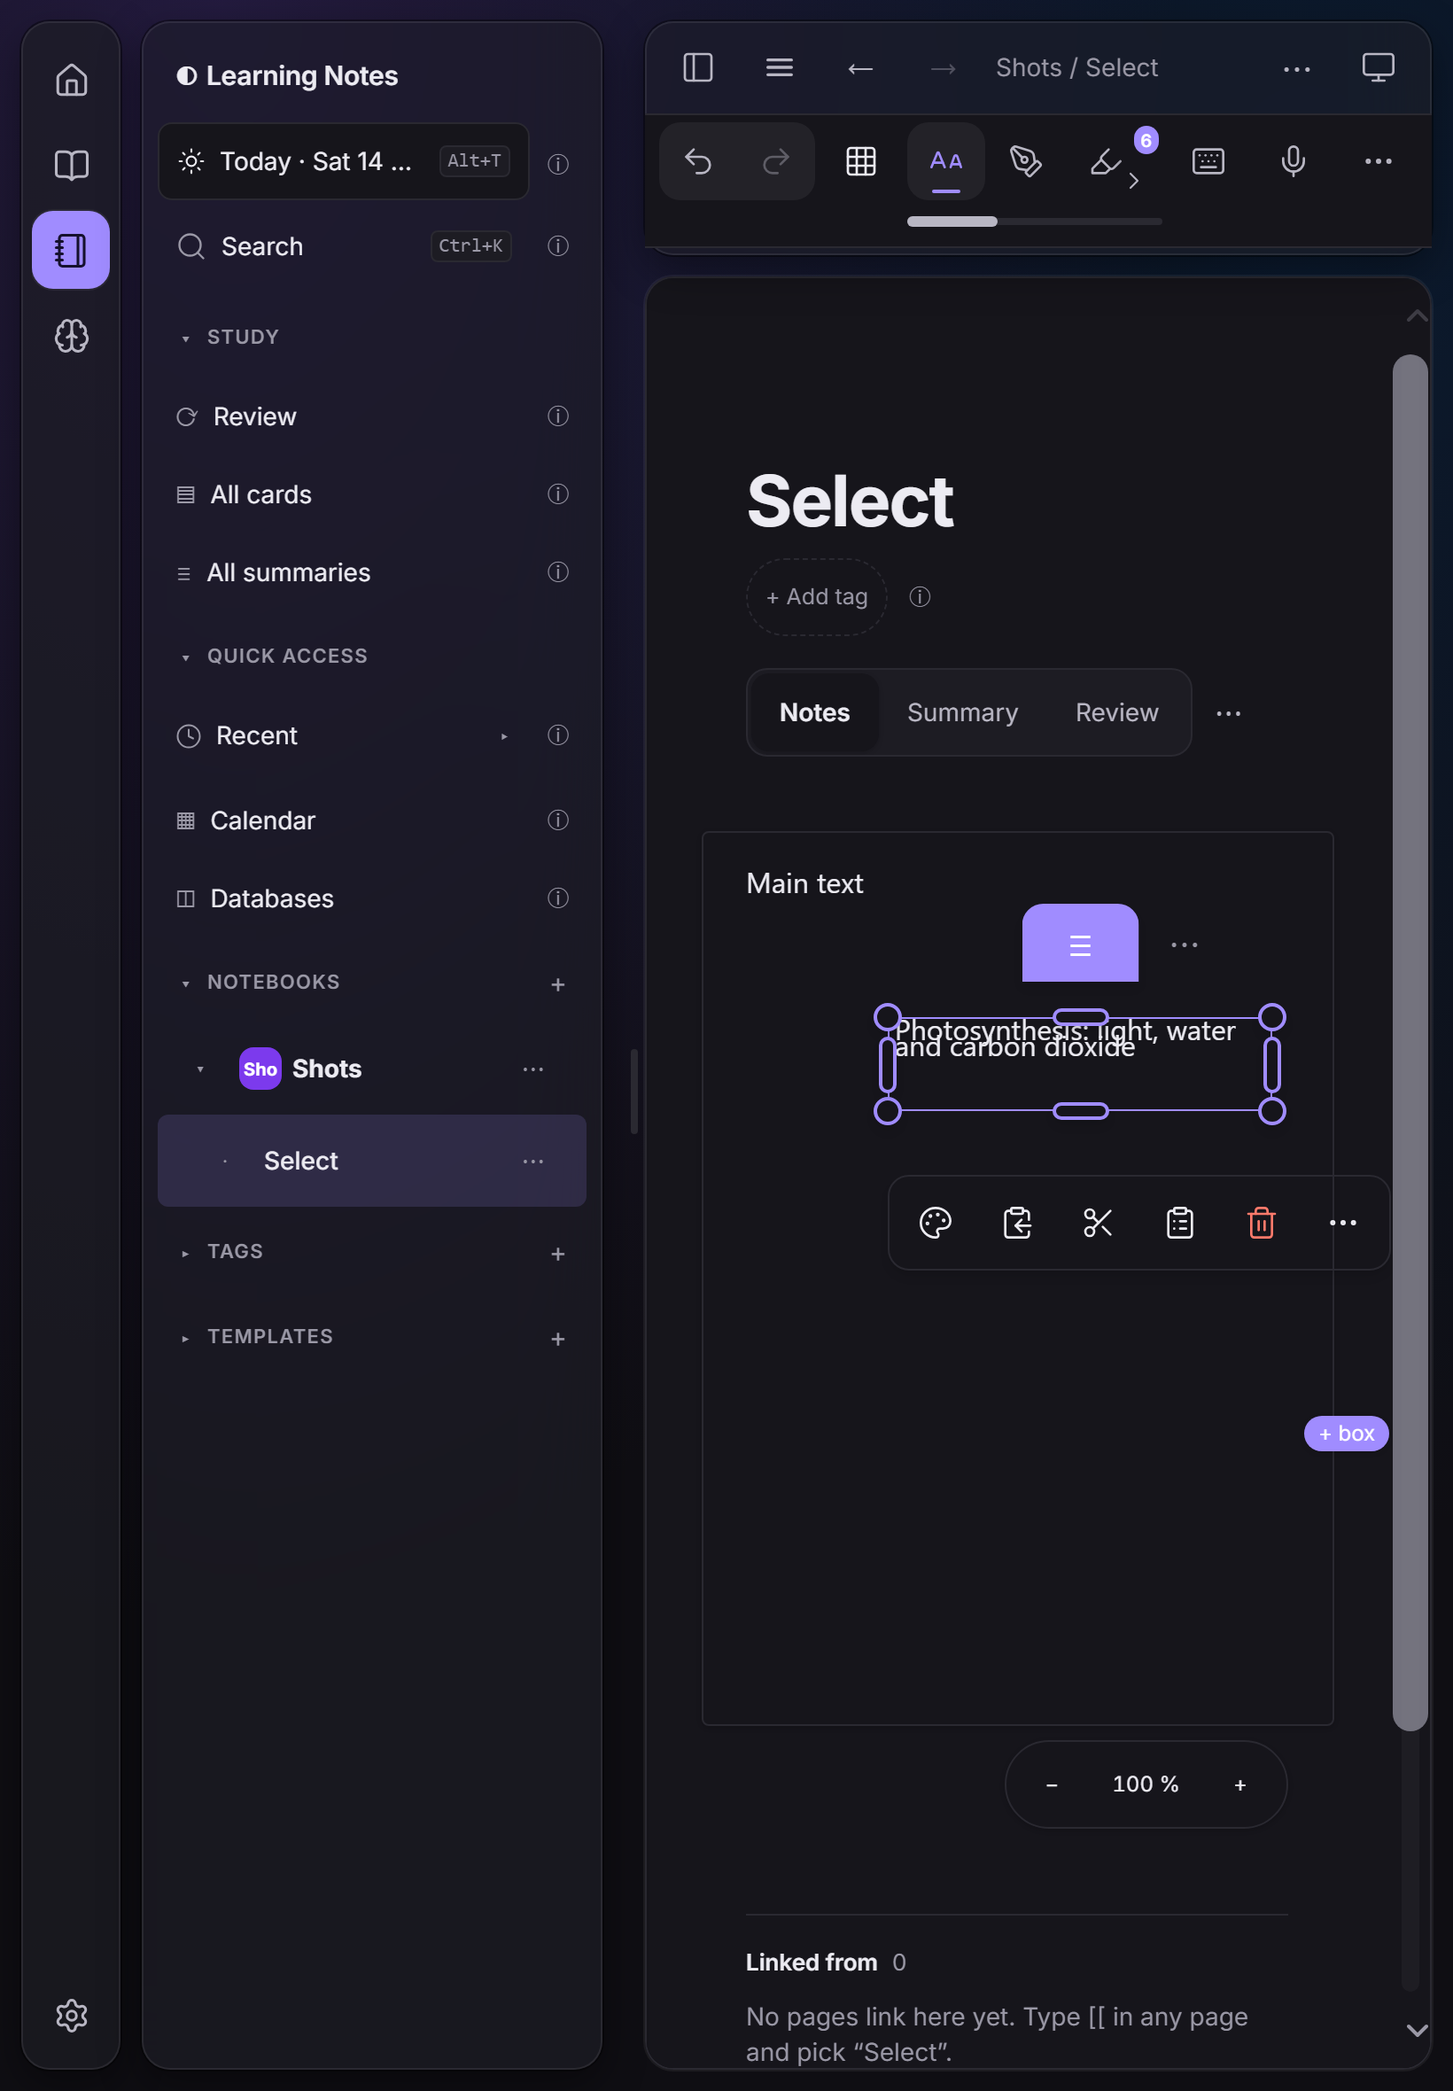
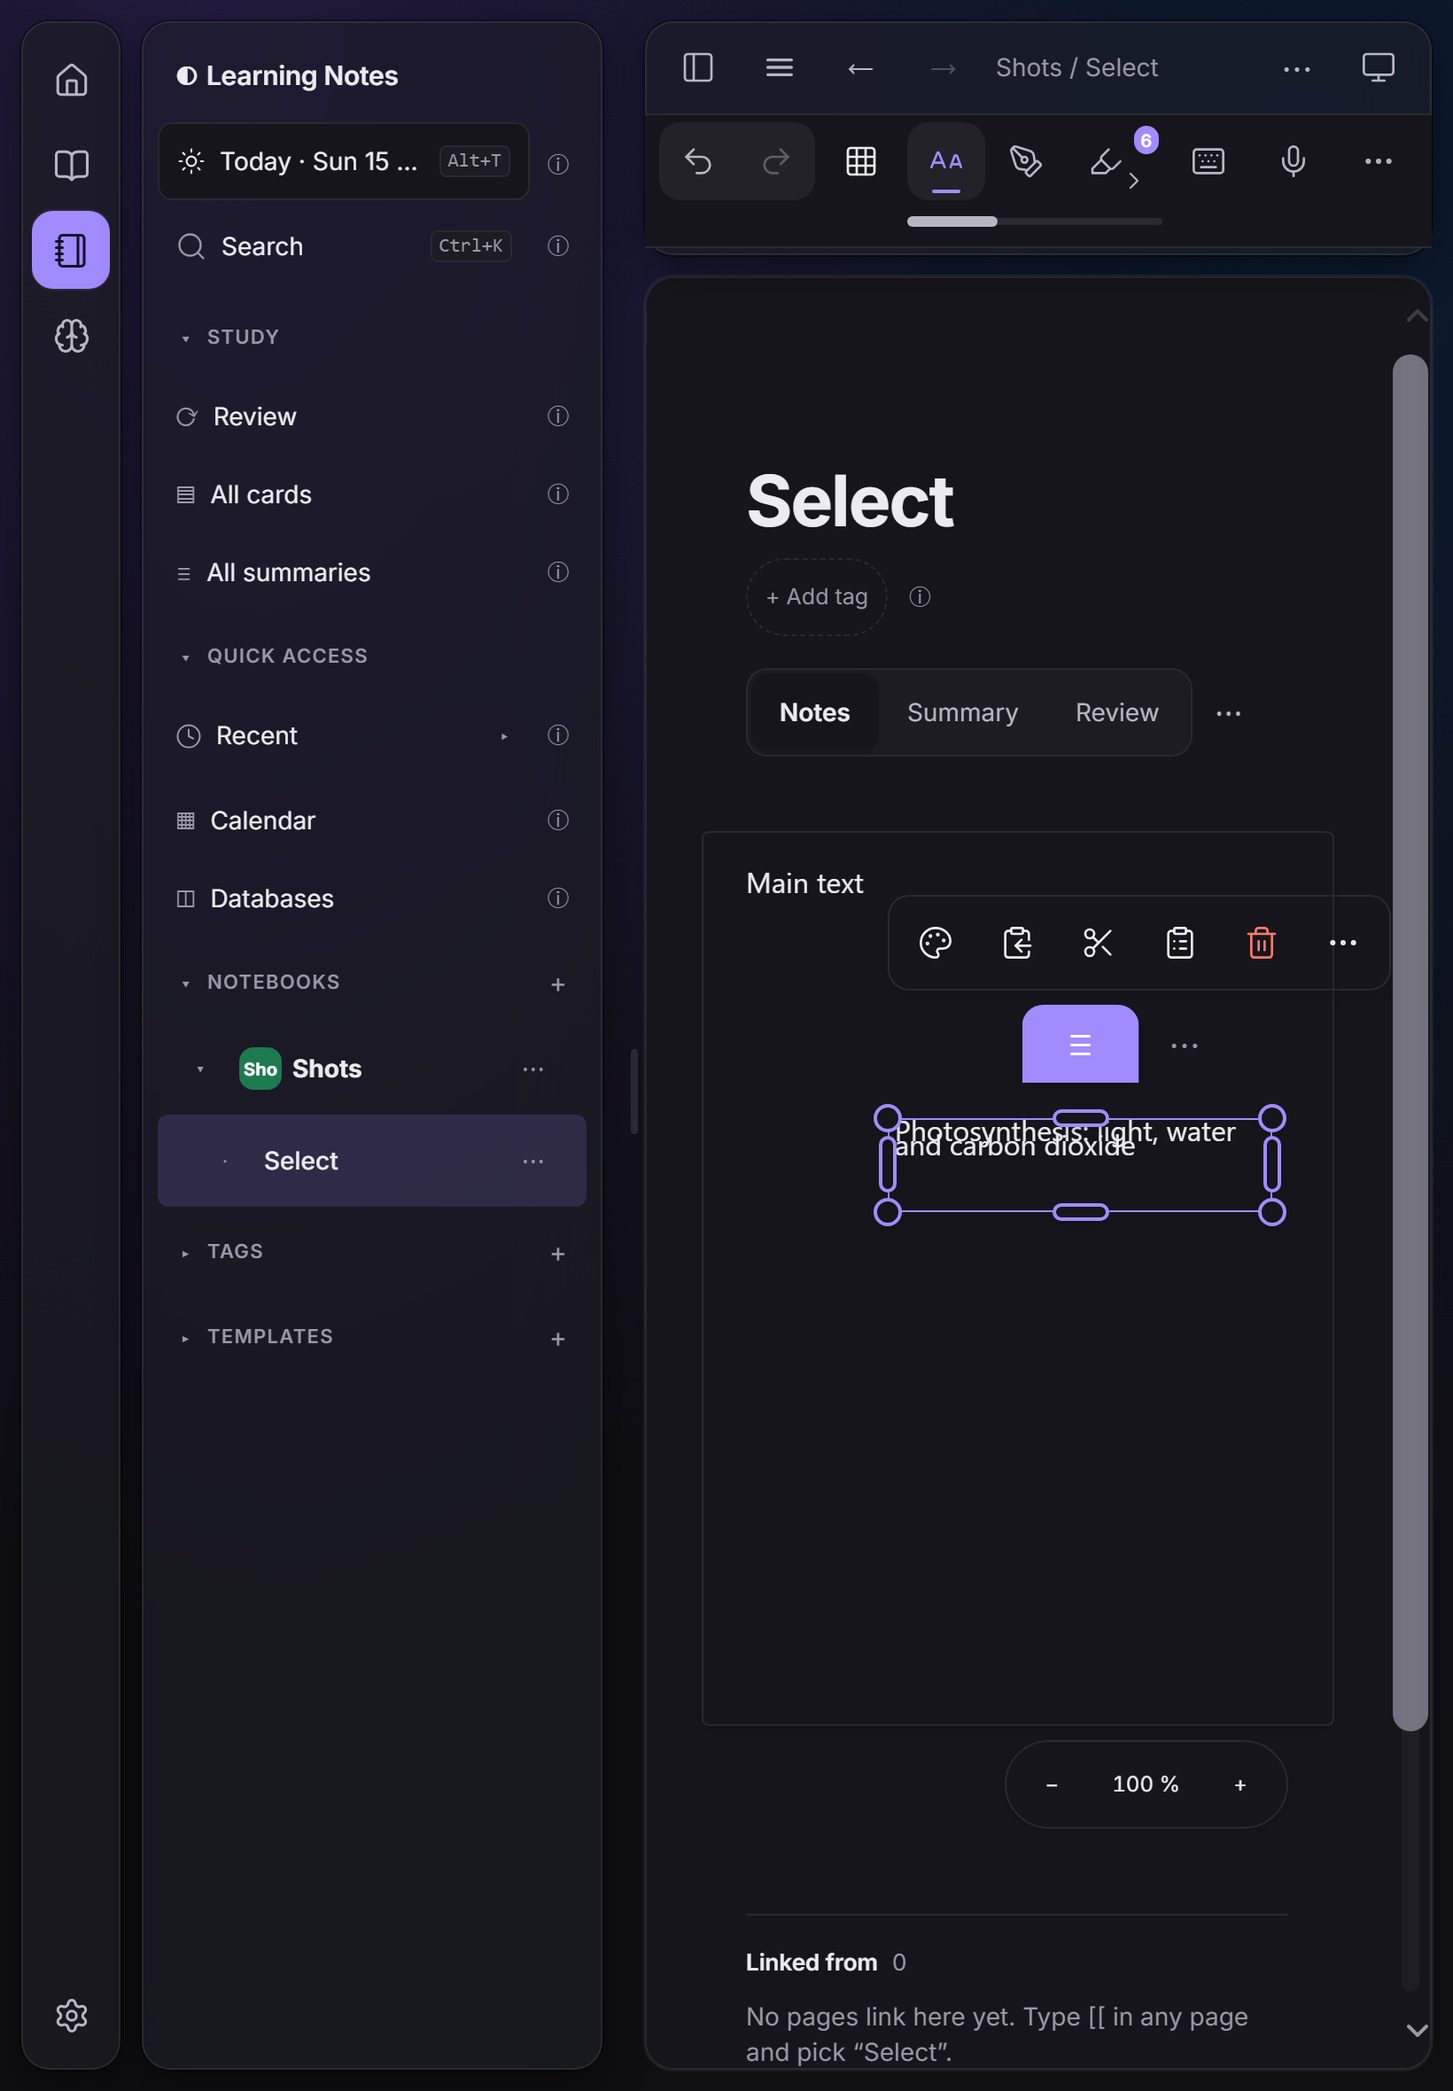
2B.3: first tap selects through tapSelect (textFirstTap hook, unit-tested), stale words cleared, trailing area counts as padding, turn-the-device test, pictures on chromium and ipad-webkit
ipad-webkit runs the tb2-select files (one line added to its testMatch).

diff --git a/e2e/tb2-select-shots.spec.ts b/e2e/tb2-select-shots.spec.ts
@@ -1,85 +1,114 @@
 // Browser types for code that runs inside the page.
 /// <reference lib="dom" />
-import { expect, test } from '@playwright/test'
+import { expect, test, type Page } from '@playwright/test'
 import { mkdirSync } from 'node:fs'
 import { createNotebook, startInMode, typeInEditor } from './helpers.ts'
 
 /**
  * Task 2B.3 first-look pictures: a selected box (switch textbox.v2 ON) in
- * light, dark and sepia on an iPad upright, iPad sideways and a phone.
- * Written to screenshots/phase-2b/2b3-select/ (see its index.md).
+ * light, dark and sepia on an iPad upright, an iPad sideways and a phone.
+ * Written to screenshots/phase-2b/2b3-select/ (see its index.md). The theme is
+ * set on the page before each shot.
  */
 test.use({ hasTouch: true, deviceScaleFactor: 2 })
 
 const EXTRA = '[data-paper-box]:not([data-paper-box="main"])'
-const OUT = 'screenshots/phase-2b/2b3-select'
-const SIZES = {
-  'ipad-upright': { width: 820, height: 1180 },
-} as const
-const THEMES = { light: 'day', dark: 'night', sepia: 'sepia' } as const
+const OUT = () => 'screenshots/phase-2b/2b3-select/' + test.info().project.name
+const THEMES: [string, string][] = [
+  ['light', 'day'],
+  ['dark', 'night'],
+  ['sepia', 'sepia'],
+]
+type Size = { width: number; height: number }
 
-test('2B.3 pictures: a selected box in three themes and three screens', async ({
-  page,
-}) => {
-  mkdirSync(OUT, { recursive: true })
+async function shoot(
+  page: Page,
+  name: string,
+  [label, theme]: [string, string],
+  vp: Size,
+) {
+  await page.setViewportSize(vp)
+  await page.evaluate(
+    (th) => document.documentElement.setAttribute('data-theme', th),
+    theme,
+  )
+  const box = page.locator(EXTRA)
+  await expect(box).toHaveCount(1)
+  // Escape deselects the box from the last shot (the next tap selects it again).
+  await page.keyboard.press('Escape')
+  await expect(box).not.toHaveAttribute('data-picked', '')
+  await expect(page.locator('html')).toHaveAttribute('data-theme', theme)
+  const r = (await box.boundingBox())!
+  await page.evaluate(
+    ({ x, y }) => {
+      const el = document.elementFromPoint(x, y)!
+      for (const type of ['pointerdown', 'pointerup'])
+        el.dispatchEvent(
+          new PointerEvent(type, {
+            pointerType: 'touch',
+            pointerId: 7,
+            isPrimary: true,
+            clientX: x,
+            clientY: y,
+            buttons: type === 'pointerdown' ? 1 : 0,
+            bubbles: true,
+            cancelable: true,
+          }),
+        )
+    },
+    { x: r.x + 30, y: r.y + r.height / 2 },
+  )
+  await expect(box).toHaveAttribute('data-picked', '')
+  // The whole box is selected: 8 dots and the tab, no caret.
+  // (On a phone the boxes stack in a column: no dots, as in the spec.)
+  await expect(box.locator('[data-resize-handle]')).toHaveCount(
+    vp.width < 480 ? 0 : 8,
+  )
+  if (vp.width >= 480)
+    await expect(box.locator('[data-box-grip]')).toBeVisible()
+  await expect(box.locator('.bn-editor')).not.toBeFocused()
+  await page.waitForTimeout(300)
+  await page.screenshot({ path: `${OUT()}/${name}-${label}.png` })
+}
+
+async function prepare(page: Page, mode: 'computer' | 'touch', vp: Size) {
+  mkdirSync(OUT(), { recursive: true })
   await page.addInitScript(() =>
     localStorage.setItem('learning-notes:flags', '["textbox.v2"]'),
   )
-  await startInMode(page, 'computer')
-  await page.setViewportSize({ width: 1180, height: 820 })
+  await startInMode(page, mode)
+  await page.setViewportSize(vp)
   await page.goto('/')
   await createNotebook(page, 'Shots', 'Select')
   await typeInEditor(page, 'Main text')
-  const sheet = (await page.locator('[data-paper-sheet="1"]').boundingBox())!
   const main = (await page.locator('[data-paper-box="main"]').boundingBox())!
-  await page.mouse.click(sheet.x + sheet.width * 0.3, main.y + main.height + 60)
+  const hasSheet = (await page.locator('[data-paper-sheet="1"]').count()) > 0
+  const sheet = hasSheet
+    ? await page.locator('[data-paper-sheet="1"]').boundingBox()
+    : null
+  // Wide screens: a tap on paper. Phone (no sheet): a tap in the gap.
+  await page.mouse.click(
+    sheet ? sheet.x + sheet.width * 0.3 : 195,
+    main.y + main.height + (sheet ? 60 : 40),
+  )
   await expect(page.locator(EXTRA)).toHaveCount(1)
+  await expect(page.locator(EXTRA + ' .bn-editor')).toBeFocused()
   await page.keyboard.type('Photosynthesis: light, water and carbon dioxide')
-  await page.waitForTimeout(700)
+  await page.waitForTimeout(900)
   await page.evaluate(() => (document.activeElement as HTMLElement).blur())
-  await page.waitForTimeout(800)
-  for (const [size, vp] of Object.entries(SIZES)) {
-    await page.setViewportSize(vp)
-    await page.waitForTimeout(600)
-    for (const [name, theme] of Object.entries(THEMES)) {
-      await page.evaluate(
-        (th) => document.documentElement.setAttribute('data-theme', th),
-        theme,
-      )
-      const box = page.locator(EXTRA)
-      // Deselect (a tap on bare paper), then a first tap on the words selects the box.
-      if ((await box.getAttribute('data-picked')) !== null) {
-        const sh = (await page.locator('[data-paper-sheet="1"]').boundingBox())!
-        const bb = (await box.boundingBox())!
-        await page.mouse.click(
-          sh.x + sh.width * 0.92,
-          Math.min(bb.y + bb.height + 160, vp.height - 60),
-        )
-        await expect(box).not.toHaveAttribute('data-picked', '')
-      }
-      const r = (await box.boundingBox())!
-      await page.evaluate(
-        ({ x, y }) => {
-          const el = document.elementFromPoint(x, y)!
-          for (const type of ['pointerdown', 'pointerup'])
-            el.dispatchEvent(
-              new PointerEvent(type, {
-                pointerType: 'touch',
-                pointerId: 7,
-                isPrimary: true,
-                clientX: x,
-                clientY: y,
-                buttons: type === 'pointerdown' ? 1 : 0,
-                bubbles: true,
-                cancelable: true,
-              }),
-            )
-        },
-        { x: r.x + 30, y: r.y + r.height / 2 },
-      )
-      await expect(box).toHaveAttribute('data-picked', '')
-      await page.waitForTimeout(250)
-      await page.screenshot({ path: `${OUT}/${size}-${name}.png` })
-    }
-  }
+  await page.waitForTimeout(900)
+}
+
+test('2B.3 pictures: iPad upright and sideways', async ({ page }) => {
+  const upright = { width: 820, height: 1180 }
+  await prepare(page, 'computer', upright)
+  for (const t of THEMES) await shoot(page, 'ipad-upright', t, upright)
+  for (const t of THEMES)
+    await shoot(page, 'ipad-sideways', t, { width: 1180, height: 820 })
+})
+
+test('2B.3 pictures: phone', async ({ page }) => {
+  const phone = { width: 390, height: 844 }
+  await prepare(page, 'touch', phone)
+  for (const t of THEMES) await shoot(page, 'phone', t, phone)
 })

diff --git a/src/paper/v2/index.ts b/src/paper/v2/index.ts
@@ -3,7 +3,7 @@ import {
   PRIORITY,
   type RouterTargets,
 } from '../../app/input/eventRouter'
-import { PICK_BOX } from '../../editor/tapSelect'
+import { PICK_BOX, textFirstTap } from '../../editor/tapSelect'
 import { activeTool } from '../../app/tools/main/mainTools'
 import { selection } from '../../app/selection/store'
 import { clearBoxes, inputModeFor, isTap, selectBoxes } from './boxSelection'
@@ -45,6 +45,7 @@ type Tap = {
  * Returns the function that removes it all.
  */
 export function installBoxV2(): () => void {
+  textFirstTap.on = true
   let mode: 'none' | 'text' = 'text'
   let tap: Tap | null = null
   let swallowUntil = 0
@@ -64,8 +65,13 @@ export function installBoxV2(): () => void {
     const box = target?.closest(EXTRA)
     if (!box || target?.closest(OWN_TAP)) return
     const picked = box.hasAttribute('data-picked')
-    // A tap on the words of a selected box: the editor and tapSelect place the caret.
-    if (picked && target?.closest('.ProseMirror')) return
+    // A tap on the words: tapSelect runs the first-tap rule (textFirstTap).
+    // (The empty trailing block under the text is not words: it counts as padding.)
+    if (
+      target?.closest('.ProseMirror') &&
+      !target.closest('[contenteditable="false"]')
+    )
+      return
     tap = {
       id: e.pointerId,
       x: e.clientX,
@@ -118,6 +124,10 @@ export function installBoxV2(): () => void {
     const ids = [...document.querySelectorAll(EXTRA + '[data-picked]')].map(
       (b) => b.getAttribute('data-paper-box') ?? '',
     )
+    // A selected box with no caret in it keeps no selection anywhere (TB-03),
+    // not even stale words in its own editor: the next tap places the caret.
+    if (ids.length && !document.activeElement?.closest(EXTRA + '[data-picked]'))
+      window.getSelection()?.removeAllRanges()
     if (ids.length) selectBoxes(selection, ids)
     else clearBoxes(selection)
   })
@@ -145,6 +155,7 @@ export function installBoxV2(): () => void {
   return () => {
     for (const off of offs) off()
     router.destroy()
+    textFirstTap.on = false
     watch.disconnect()
     mirror.disconnect()
     clearBoxes(selection)

diff --git a/e2e/tb2-select.spec.ts b/e2e/tb2-select.spec.ts
@@ -297,7 +297,8 @@ test('TB-06: a tap on empty paper makes a box under the last one, never beside i
     r.y + 4,
   )
   await expect(page.locator(EXTRA)).toHaveCount(2)
-  const second = await rect(page.locator(EXTRA).nth(1))
+  const fresh = page.locator(EXTRA + ':has(.bn-editor:focus)')
+  const second = await rect(fresh)
   expect(second.y).toBeGreaterThanOrEqual(r.y + r.height - 2)
   await expect(page.locator(EXTRA).nth(1).locator('.bn-editor')).toBeFocused()
   await page.keyboard.type('Second')
@@ -377,4 +378,35 @@ test('TB-10: a new box stays one line wide until the right margin; never a lette
   expect(two.width).toBeGreaterThan(one.width)
   expect(two.height).toBeLessThan(one.height * 1.6)
   expect(two.width).toBeGreaterThan(80)
+})
+
+test('turning the device with a box selected keeps the box where it was (same as a fresh load)', async ({
+  page,
+}) => {
+  await start(page, 'Turn')
+  const box = await oneBox(page, 'Photosynthesis: light and water')
+  await page.setViewportSize({ width: 820, height: 1180 })
+  await page.waitForTimeout(800)
+  await expect(box).toHaveCount(1)
+  const frac = async () => {
+    const s = await rect(page.locator('[data-paper-sheet="1"]'))
+    const b = await rect(box)
+    return { x: (b.x - s.x) / s.width, w: b.width / s.width }
+  }
+  const p = await charPoint(page, 5)
+  await tapAt(page, p.x, p.y, 'touch')
+  await expect(box).toHaveAttribute('data-picked', '')
+  const before = await frac()
+  for (const vp of [
+    { width: 1180, height: 820 },
+    { width: 820, height: 1180 },
+  ]) {
+    await page.setViewportSize(vp)
+    await page.waitForTimeout(800)
+    await expect(box).toHaveCount(1)
+  }
+  const after = await frac()
+  expect(Math.abs(after.x - before.x)).toBeLessThan(0.03)
+  expect(Math.abs(after.w - before.w)).toBeLessThan(0.03)
+  await expect(box).toHaveAttribute('data-picked', '')
 })

diff --git a/src/editor/tapSelectFirst.test.ts b/src/editor/tapSelectFirst.test.ts
@@ -1,0 +1,37 @@
+// @vitest-environment jsdom
+import { afterEach, describe, expect, it } from 'vitest'
+import { boxShift, textFirstTap } from './tapSelect'
+
+function editorIn(id: string, picked: boolean): HTMLElement {
+  const box = document.createElement('div')
+  box.setAttribute('data-paper-box', id)
+  if (picked) box.setAttribute('data-picked', '')
+  const ed = document.createElement('div')
+  box.appendChild(ed)
+  return ed
+}
+
+describe('boxShift with the Text tool (text box v2, TB-01)', () => {
+  afterEach(() => {
+    textFirstTap.on = false
+  })
+
+  it('switch off: the Text tool edits at once, as today', () => {
+    expect(boxShift(editorIn('a', false), 'text')).toBe(0)
+  })
+
+  it('switch on: the first tap on a box that is not selected selects it', () => {
+    textFirstTap.on = true
+    expect(boxShift(editorIn('a', false), 'text')).toBe(1)
+  })
+
+  it('switch on: a selected box and the default box take the caret', () => {
+    textFirstTap.on = true
+    expect(boxShift(editorIn('a', true), 'text')).toBe(0)
+    expect(boxShift(editorIn('main', false), 'text')).toBe(0)
+  })
+
+  it('the Lasso is not changed by the switch', () => {
+    expect(boxShift(editorIn('a', false), 'lasso')).toBe(1)
+  })
+})

diff --git a/src/editor/tapSelect.ts b/src/editor/tapSelect.ts
@@ -203,14 +203,17 @@ export const boxTapPending = (): boolean => Date.now() < boxTapUntil
 /** Fired on window when a first tap selects a box: detail {id, add}. */
 export const PICK_BOX = 'ln:pick-box'
 
+/** Text box v2 (2B.3): with the Text tool too, the first tap selects the box. */
+export const textFirstTap = { on: false }
+
 /**
  * 1 when a tap on this editor's box first selects the box (Lasso, an extra
  * box that is not picked): every count then moves up by one. 0 when the box
  * is active already (Text tool, the page's main box, a picked box).
  */
-function boxShift(dom: HTMLElement, tool: string): number {
+export function boxShift(dom: HTMLElement, tool: string): number {
   const box = dom.closest('[data-paper-box]')
-  if (!box || tool === 'text') return 0
+  if (!box || (tool === 'text' && !textFirstTap.on)) return 0
   if (box.getAttribute('data-paper-box') === 'main') return 0
   return box.hasAttribute('data-picked') ? 0 : 1
 }

diff --git a/src/paper/PaperFrame.tsx b/src/paper/PaperFrame.tsx
@@ -1,5 +1,5 @@
 import { frameCss, padOf } from '../core/boxStyle'
-import { PICK_BOX } from '../editor/tapSelect'
+import { PICK_BOX, textFirstTap } from '../editor/tapSelect'
 import { isOn } from '../app/flags'
 import { isUiEvent } from '../app/uiGuard'
 import {
@@ -633,7 +633,13 @@ export function PaperFrame({
     const down = (e: Event) => {
       const id = boxOfText(e.target)
       window.clearTimeout(later)
-      if (id)
+      // Text box v2: the first tap on a box that is not selected only selects
+      // it (no caret, no typing state).
+      const unpicked =
+        textFirstTap.on &&
+        id !== 'main' &&
+        !(e.target as Element).closest('[data-paper-box][data-picked]')
+      if (id && !unpicked)
         later = window.setTimeout(() => send({ type: 'caretIn', id }), 250)
     }
     const key = (e: KeyboardEvent) => {

diff --git a/playwright.config.ts b/playwright.config.ts
@@ -118,6 +118,7 @@ const config = defineConfig({
         /foundationSelectionOverlay/,
         /barFixes/,
         /pencilTaps/,
+        /tb2-select/,
         /boxPills/,
         /microBar/,
         /tableGap/,

diff --git a/screenshots/phase-2b/2b3-select/index.md b/screenshots/phase-2b/2b3-select/index.md
@@ -1,3 +1,3 @@
-# 2B.3 first-look pictures (chromium, switch textbox.v2 ON)
+# 2B.3 first-look pictures (switch textbox.v2 ON)
 
-ipad-upright and ipad-sideways (sideways taken in an earlier run; the viewport switch inside one test then loses the box: open item), each in light, dark and sepia: a selected box (1.5 px accent line, 8 dots, tab, bar). Phone: not yet (the box is not found in the phone layout; to look into). ipad-webkit pictures wait for the webkit turn. Made by e2e/tb2-select-shots.spec.ts.
+Folders chromium/ and ipad-webkit/: ipad-upright, ipad-sideways, phone, each in light, dark and sepia (theme set on the page before each shot). A box is selected by a first tap on its words: 1.5 px accent line, 8 dots, tab, bar, no caret. Phone: boxes stack in a column, so no dots (spec), a lock and the menu show instead. Made by e2e/tb2-select-shots.spec.ts. Seen in review of my own pictures: in a narrow box the two text lines sit too close and touch the top line (the old box line height; not part of this task). Beginner/Professional not shot (no difference for this screen).
